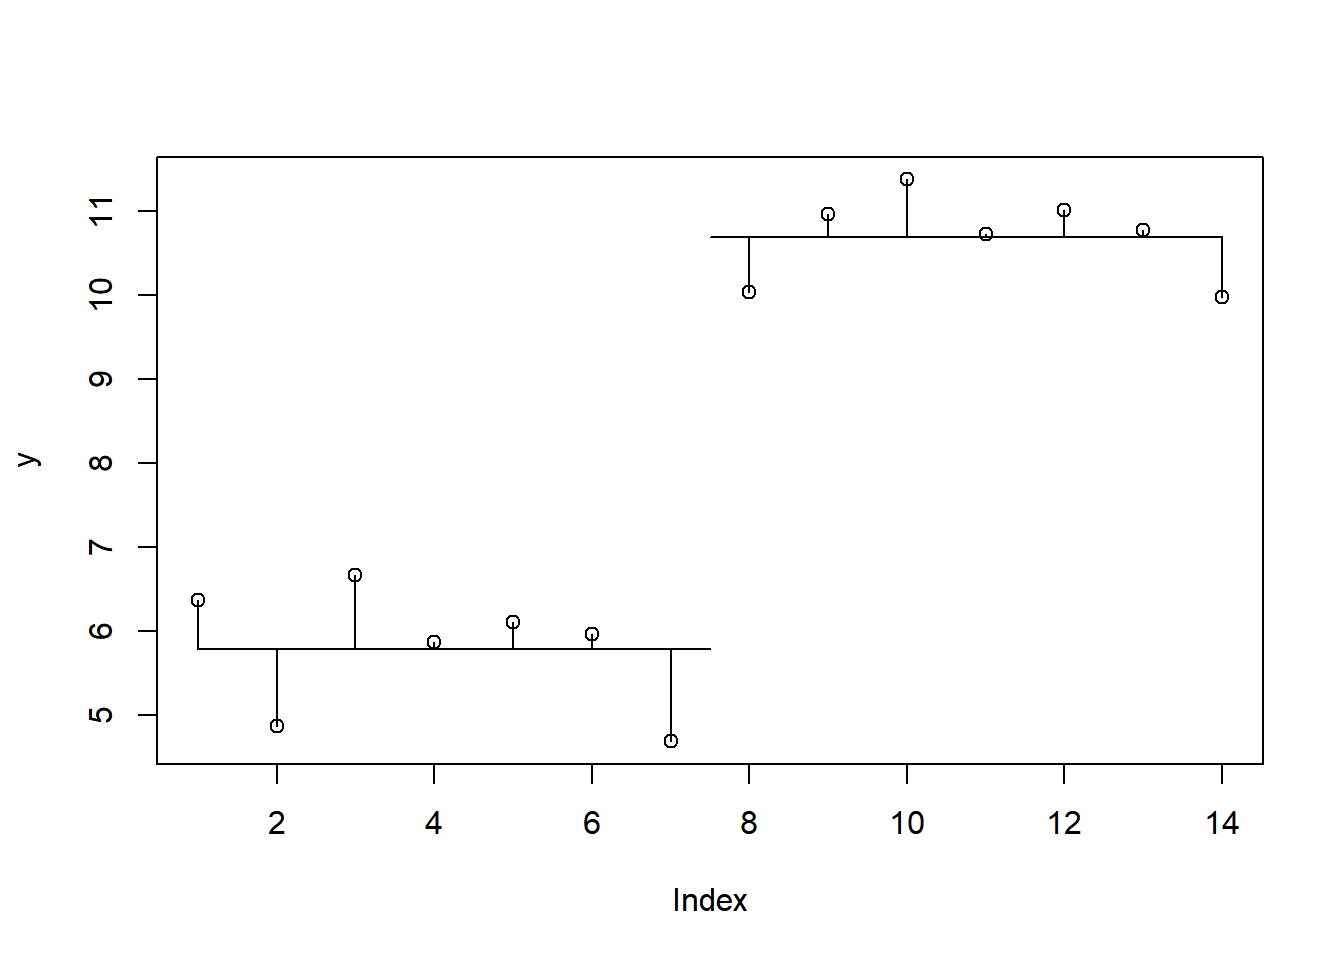
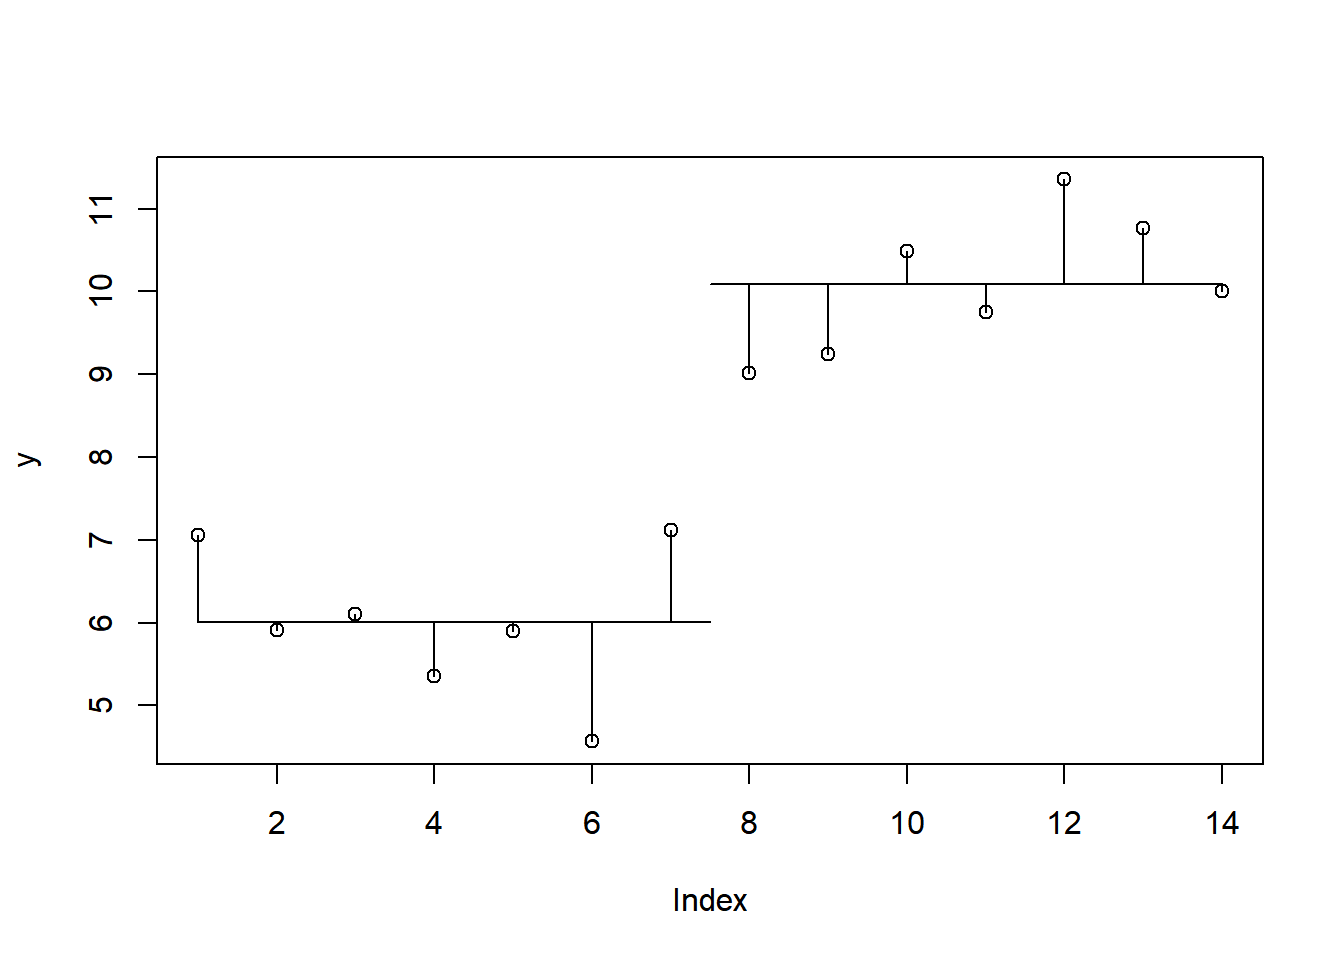
Conceptos

diff --git a/Blog/_site/posts/01-concepto-y-modelos-experimentar/index.html b/Blog/_site/posts/01-concepto-y-modelos-experimentar/index.html
@@ -637,7 +637,7 @@ H_0: m_1 = m_2 = m_3 = ... = m_k
 <span id="cb16-2"><a href="#cb16-2" aria-hidden="true" tabindex="-1"></a>dist_med_y</span></code><button title="Copiar al portapapeles" class="code-copy-button"><i class="bi"></i></button></pre></div>
 </details>
 <div class="cell-output cell-output-stdout">
-<pre><code>[1] 89.15843</code></pre>
+<pre><code>[1] 67.46908</code></pre>
 </div>
 </div>
 </div>
@@ -652,7 +652,7 @@ H_0: m_1 = m_2 = m_3 = ... = m_k
 </details>
 <div class="cell-output cell-output-stdout">
 <pre><code>        a         b 
- 5.789204 10.695722 </code></pre>
+ 6.003627 10.087852 </code></pre>
 </div>
 </div>
 <p>Grafiquemos esta nueva estructura de datos.</p>
@@ -690,7 +690,7 @@ H_0: m_1 = m_2 = m_3 = ... = m_k
 <span id="cb21-4"><a href="#cb21-4" aria-hidden="true" tabindex="-1"></a>dist_med_s</span></code><button title="Copiar al portapapeles" class="code-copy-button"><i class="bi"></i></button></pre></div>
 </details>
 <div class="cell-output cell-output-stdout">
-<pre><code>[1] 4.899709</code></pre>
+<pre><code>[1] 9.085962</code></pre>
 </div>
 </div>
 </div>
@@ -711,10 +711,6 @@ H_0: m_1 = m_2 = m_3 = ... = m_k
 </div>
 <div id="callout-14" class="callout-14-contents callout-collapse collapse">
 <div class="callout-body-container callout-body">
-
-</div>
-</div>
-</div>
 <p>Esta diferencia se asocia con la siguiente gráfica:</p>
 <div class="cell">
 <details>
@@ -738,10 +734,12 @@ H_0: m_1 = m_2 = m_3 = ... = m_k
 <span id="cb24-3"><a href="#cb24-3" aria-hidden="true" tabindex="-1"></a>dist_med_s_y</span></code><button title="Copiar al portapapeles" class="code-copy-button"><i class="bi"></i></button></pre></div>
 </details>
 <div class="cell-output cell-output-stdout">
-<pre><code>[1] 84.25873</code></pre>
+<pre><code>[1] 58.38312</code></pre>
 </div>
 </div>
-<p>:::</p>
+</div>
+</div>
+</div>
 <p>Estas tres formas de calcular las distancias entre datos y promedios se asocia con <em>fuentes de variación</em></p>
 <ol type="1">
 <li>variaciones o error total</li>
@@ -771,8 +769,8 @@ Analiza la correspondencia entre los valores y las gráficas que vimos arriba co
 
 Response: y
           Df Sum Sq Mean Sq F value    Pr(&gt;F)    
-f          1 84.259  84.259  206.36 6.366e-09 ***
-Residuals 12  4.900   0.408                      
+f          1 58.383  58.383  77.108 1.431e-06 ***
+Residuals 12  9.086   0.757                      
 ---
 Signif. codes:  0 '***' 0.001 '**' 0.01 '*' 0.05 '.' 0.1 ' ' 1</code></pre>
 </div>
@@ -781,21 +779,21 @@ Signif. codes:  0 '***' 0.001 '**' 0.01 '*' 0.05 '.' 0.1 ' ' 1</code></pre>
 <div class="sourceCode cell-code" id="cb28"><pre class="sourceCode r code-with-copy"><code class="sourceCode r"><span id="cb28-1"><a href="#cb28-1" aria-hidden="true" tabindex="-1"></a>dist_med_y</span></code><button title="Copiar al portapapeles" class="code-copy-button"><i class="bi"></i></button></pre></div>
 </details>
 <div class="cell-output cell-output-stdout">
-<pre><code>[1] 89.15843</code></pre>
+<pre><code>[1] 67.46908</code></pre>
 </div>
 <details>
 <summary>Código</summary>
 <div class="sourceCode cell-code" id="cb30"><pre class="sourceCode r code-with-copy"><code class="sourceCode r"><span id="cb30-1"><a href="#cb30-1" aria-hidden="true" tabindex="-1"></a>dist_med_s</span></code><button title="Copiar al portapapeles" class="code-copy-button"><i class="bi"></i></button></pre></div>
 </details>
 <div class="cell-output cell-output-stdout">
-<pre><code>[1] 4.899709</code></pre>
+<pre><code>[1] 9.085962</code></pre>
 </div>
 <details>
 <summary>Código</summary>
 <div class="sourceCode cell-code" id="cb32"><pre class="sourceCode r code-with-copy"><code class="sourceCode r"><span id="cb32-1"><a href="#cb32-1" aria-hidden="true" tabindex="-1"></a>dist_med_s_y </span></code><button title="Copiar al portapapeles" class="code-copy-button"><i class="bi"></i></button></pre></div>
 </details>
 <div class="cell-output cell-output-stdout">
-<pre><code>[1] 84.25873</code></pre>
+<pre><code>[1] 58.38312</code></pre>
 </div>
 </div>
 <div class="cell">

diff --git a/Blog/_site/index.html b/Blog/_site/index.html
@@ -216,7 +216,7 @@ Miguel Equihua, Octavio Pérez-Maqueo, Elio Lagunes
 </a>
 </div>
 </div>
-<div class="quarto-post image-right" data-index="1" data-categories="clase" data-listing-date-sort="1706508000000" data-listing-file-modified-sort="1706509875956" data-listing-date-modified-sort="NaN" data-listing-reading-time-sort="28">
+<div class="quarto-post image-right" data-index="1" data-categories="clase" data-listing-date-sort="1706508000000" data-listing-file-modified-sort="1706510821192" data-listing-date-modified-sort="NaN" data-listing-reading-time-sort="28">
 <div class="thumbnail">
 <p><a href="./posts/01-concepto-y-modelos-experimentar/index.html"> <p class="card-img-top"><img src="posts\01-concepto-y-modelos-experimentar\images\vampiro-dracula.png"  class="thumbnail-image card-img"/></p> </a></p>
 </div>
